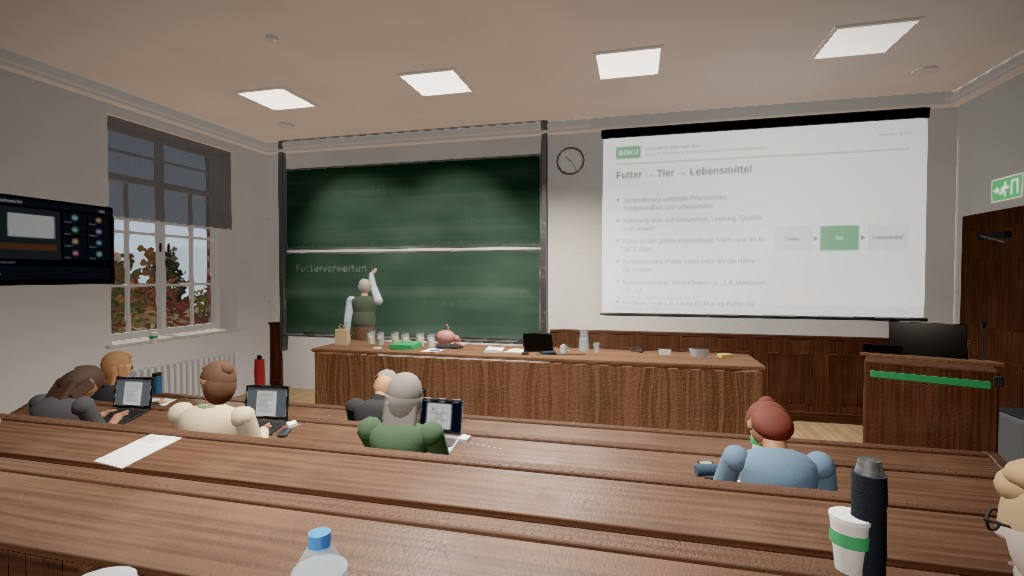
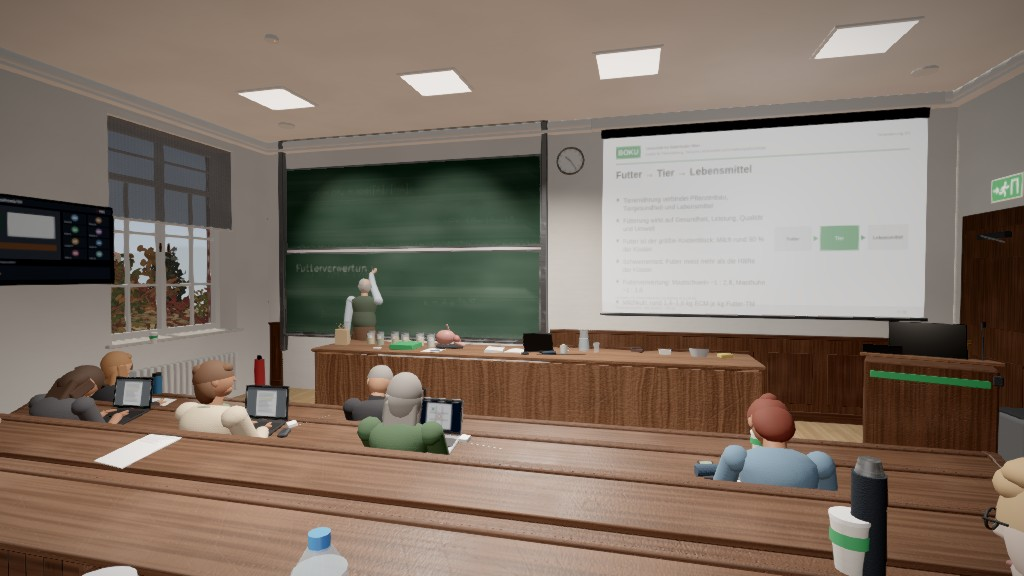
Balancing: Gegner-Stärke Prüfungswoche/Diplom 0,56, Blick auf Spieler:in monoton, Bericht mit 80 Läufen
Claude-Session: https://claude.ai/code/session_0117T88ENHFcjcmrZoivZCwB

diff --git a/src/game/config.js b/src/game/config.js
@@ -10,12 +10,12 @@ export const DIFFICULTIES = {
     prof: { shoulderEvery: [8, 18], telegraph: 0.31, bluffChance: 0.28, playerFixChance: 0.22, fixation: [0.7, 2.3], turnRate: 3.8 }
   },
   pruefungswoche: {
-    id: 'pruefungswoche', target: 7, mul: 1.8, quizEvery: 0.2, quizTime: 14, oppSkill: 0.5, neighbor: 'neutral', aisle: 1.4,
-    prof: { shoulderEvery: [6, 15], telegraph: 0.26, bluffChance: 0.33, playerFixChance: 0.22, fixation: [0.5, 1.7], turnRate: 4.4 }
+    id: 'pruefungswoche', target: 7, mul: 1.8, quizEvery: 0.2, quizTime: 14, oppSkill: 0.56, neighbor: 'neutral', aisle: 1.4,
+    prof: { shoulderEvery: [6, 15], telegraph: 0.26, bluffChance: 0.33, playerFixChance: 0.24, fixation: [0.5, 1.7], turnRate: 4.4 }
   },
   diplom: {
-    id: 'diplom', target: 8, mul: 2.2, quizEvery: 0.17, quizTime: 12, oppSkill: 0.6, neighbor: 'betrayer', aisle: 1.8,
-    prof: { shoulderEvery: [5, 12], telegraph: 0.2, bluffChance: 0.38, playerFixChance: 0.22, fixation: [0.45, 1.5], turnRate: 5.0 }
+    id: 'diplom', target: 8, mul: 2.2, quizEvery: 0.17, quizTime: 12, oppSkill: 0.56, neighbor: 'betrayer', aisle: 1.8,
+    prof: { shoulderEvery: [5, 12], telegraph: 0.2, bluffChance: 0.38, playerFixChance: 0.24, fixation: [0.45, 1.5], turnRate: 5.0 }
   }
 };
 export const DIFFICULTY_ORDER = ['erstsemester', 'bachelor', 'pruefungswoche', 'diplom'];
@@ -26,7 +26,7 @@ export function customDifficulty(c) {
   const lerp = (a, b) => a + (b - a) * (v - 0.5) / 1.3;
   return {
     id: 'custom', target: c.target ?? 4, mul: v, quizEvery: lerp(0.22, 0.11), quizTime: Math.round(lerp(20, 12)), oppSkill: c.oppSkill ?? 0.6, neighbor: c.neighbor || 'helpful', aisle: v,
-    prof: { shoulderEvery: [lerp(14, 6), lerp(30, 14)], telegraph: lerp(0.65, 0.24), bluffChance: lerp(0.12, 0.35), playerFixChance: lerp(0.06, 0.26), fixation: [lerp(0.9, 0.5), lerp(2.4, 1.6)], turnRate: lerp(2.6, 4.4) }
+    prof: { shoulderEvery: [lerp(14, 6), lerp(30, 14)], telegraph: lerp(0.65, 0.24), bluffChance: lerp(0.12, 0.35), playerFixChance: lerp(0.06, 0.24), fixation: [lerp(0.9, 0.5), lerp(2.4, 1.6)], turnRate: lerp(2.6, 4.4) }
   };
 }
 

diff --git a/docs/CHANGELOG.md b/docs/CHANGELOG.md
@@ -38,7 +38,7 @@ Komplette Neuentwicklung nach `AUFTRAG_V2.md`. Version 1 liegt unverändert in `
   Deckelwinkel, Helligkeit, Kopfhörer, Alt-Tab, Stummschaltung.
 - Mitschreiben, Prüfungsfragen mit Blick in die Mitschrift, Exkursionsliste (Unterschrift per Mausgeste), Konsequenzen über drei Stufen,
   Note 1–5, Zeugnis, 14 Erfolge, lokale Bestenliste, Tutorial-Hinweise, vier Schwierigkeiten + benutzerdefiniert.
-- Headless-Bot und Balancing über 40 Durchläufe je Stufe.
+- Headless-Bot und Balancing über 80 Durchläufe je Stufe.
 
 ### UI, Audio, Qualität
 - Startseite im Stil von boku.ac.at mit Live-Hero, LV-Seite im BOKUonline-Stil mit Sitzplan, Einstellungen, Mensa-Pause, Zeugnis.

diff --git a/docs/ABSCHLUSS.md b/docs/ABSCHLUSS.md
@@ -103,7 +103,7 @@ Legende: ✅ umgesetzt · ◐ teilweise / mit dokumentierter Abweichung · ✗ n
 | 6 | Note 1–5, Zeugnis, Rangliste, Erfolge | ✅ | 14 Erfolge |
 | 6 | Tutorial in den ersten 90 s, abschaltbar | ✅ | |
 | 6 | 4 Stufen + Custom | ✅ | |
-| Abnahme | Bot 20 Läufe je Stufe, Bachelor ~50 % | ✅ | `docs/BALANCING.md` (40 Läufe je Stufe) |
+| Abnahme | Bot 20 Läufe je Stufe, Bachelor ~50 % | ✅ | `docs/BALANCING.md` (80 Läufe je Stufe: Bachelor 54 %, monoton 95 → 54 → 35 → 11 %) |
 
 ## 7. UI/UX
 
